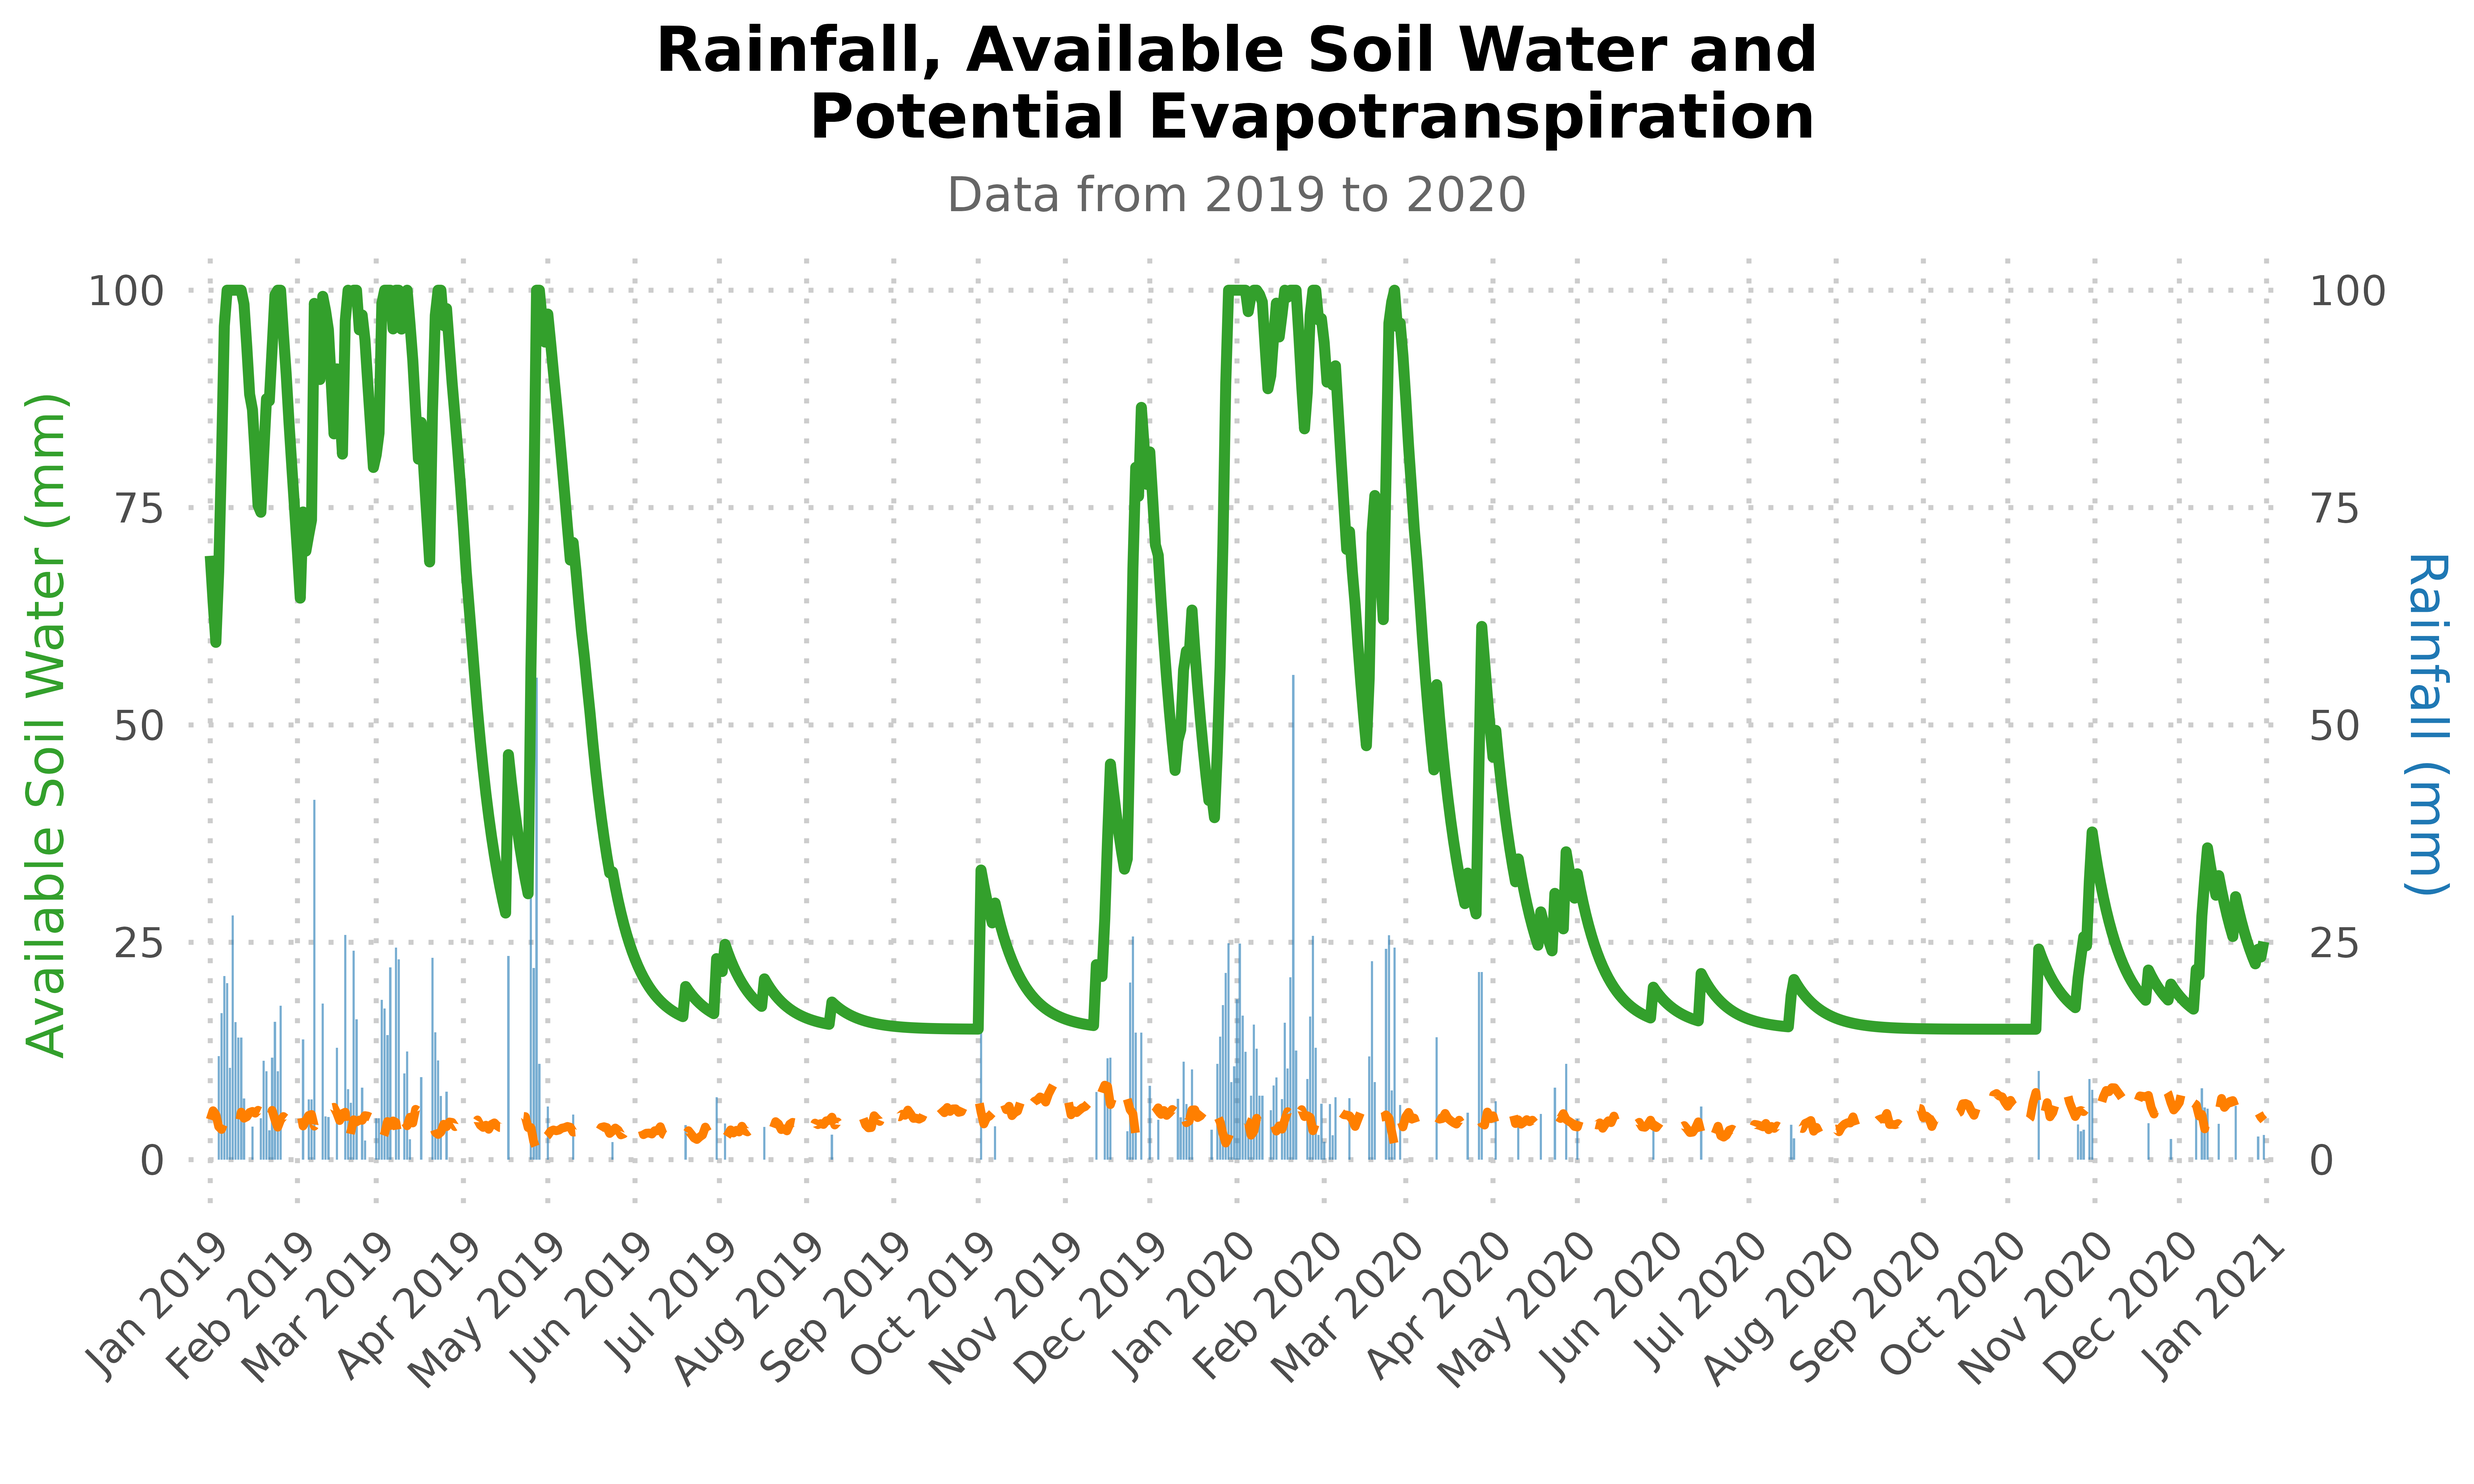
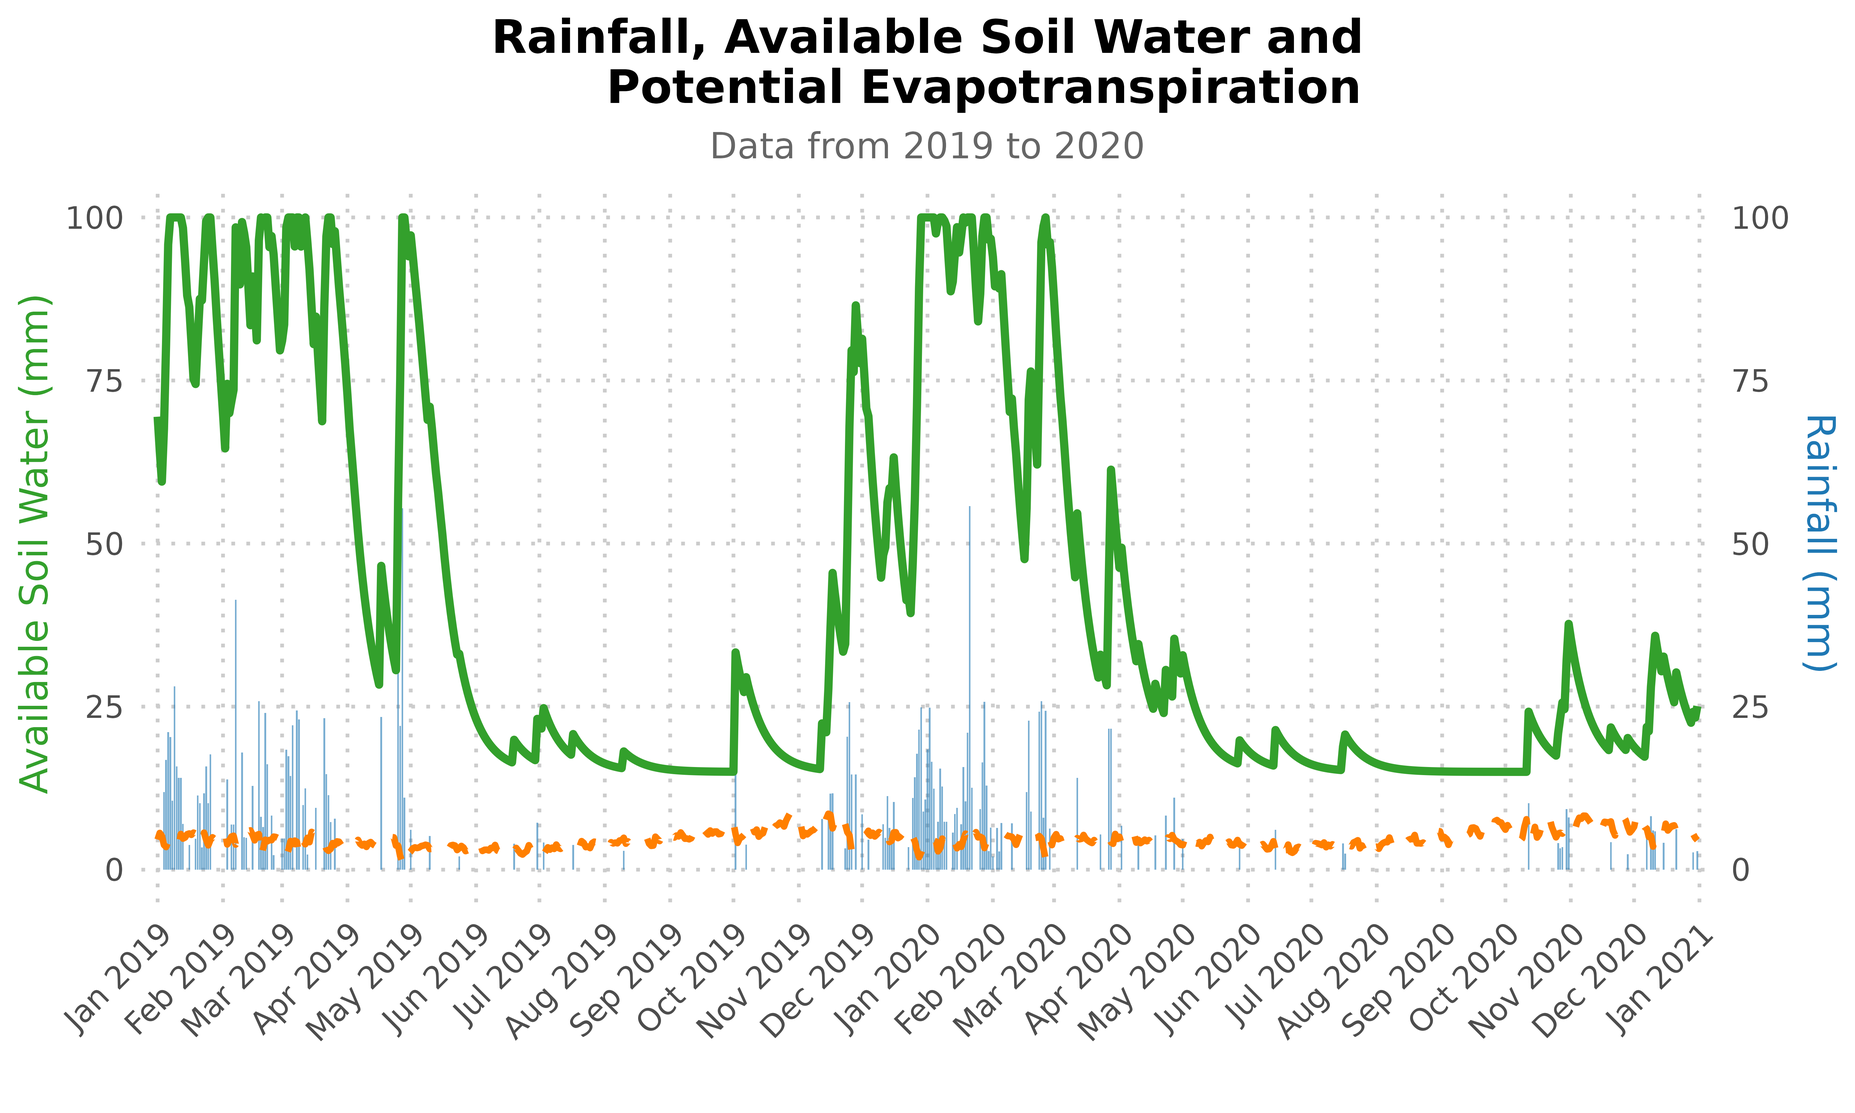
Deploying to gh-pages from @ RobelTakele/AquaBEHER@e83e4a115a71dea6b12595fe2a8b7c8af680c6b0 🚀

Changed region(s): [[0.4675, 0.7156, 0.5298, 0.7778], [0.1247, 0.7467, 0.187, 0.7778]]

diff --git a/articles/AquaBEHER.html b/articles/AquaBEHER.html
@@ -234,7 +234,7 @@ formulation:</p>
 <span>  lwd <span class="op">=</span> <span class="fu"><a href="https://rdrr.io/r/base/c.html" class="external-link">c</a></span><span class="op">(</span><span class="fl">2</span>, <span class="fl">2</span><span class="op">)</span>, inset <span class="op">=</span> <span class="fu"><a href="https://rdrr.io/r/base/c.html" class="external-link">c</a></span><span class="op">(</span><span class="fl">1</span>, <span class="fl">1</span><span class="op">)</span>,</span>
 <span>  xpd <span class="op">=</span> <span class="cn">TRUE</span>, col <span class="op">=</span> <span class="fu"><a href="https://rdrr.io/r/base/c.html" class="external-link">c</a></span><span class="op">(</span><span class="st">"black"</span>, <span class="st">"blue"</span><span class="op">)</span></span>
 <span><span class="op">)</span></span></code></pre></div>
-<p><img src="AquaBEHER_files/figure-html/PETplot-1.png" width="4000" style="display: block; margin: auto;"></p>
+<p><img src="AquaBEHER_files/figure-html/PETplot-1.png" width="1800" style="display: block; margin: auto;"></p>
 <p><strong>Key Insight:</strong> The FAO Penman–Monteith formulation
 presents enhanced day-to-day variations of evapotranspiration compared
 to the Hargreaves-Samani formulation.</p>
@@ -354,7 +354,7 @@ values of Rain, Eto and soil water holding capacity.</p>
 <span>    panel.grid.minor <span class="op">=</span> <span class="fu"><a href="https://ggplot2.tidyverse.org/reference/element.html" class="external-link">element_blank</a></span><span class="op">(</span><span class="op">)</span>,</span>
 <span>    panel.grid.major <span class="op">=</span> <span class="fu"><a href="https://ggplot2.tidyverse.org/reference/element.html" class="external-link">element_line</a></span><span class="op">(</span>linetype <span class="op">=</span> <span class="st">"dotted"</span>, color <span class="op">=</span> <span class="st">"grey80"</span><span class="op">)</span></span>
 <span>  <span class="op">)</span></span></code></pre></div>
-<p><img src="AquaBEHER_files/figure-html/WATBALplot-1.png" width="4000" style="display: block; margin: auto;"></p>
+<p><img src="AquaBEHER_files/figure-html/WATBALplot-1.png" width="3000" style="display: block; margin: auto;"></p>
 </div>
 </div>
 <div class="section level2">
@@ -524,7 +524,7 @@ compute the wet season calendar:</p>
 <span>      <span class="st">"Cessation"</span> <span class="op">=</span> <span class="st">"red"</span></span>
 <span>    <span class="op">)</span></span>
 <span>  <span class="op">)</span></span></code></pre></div>
-<p><img src="AquaBEHER_files/figure-html/WSC-1.png" width="4000" style="display: block; margin: auto;"></p>
+<p><img src="AquaBEHER_files/figure-html/WSC-1.png" width="3000" style="display: block; margin: auto;"></p>
 </div>
 </div>
 <div class="section level2">
@@ -635,7 +635,7 @@ fcstVarName, tercileMethod)</p>
 <span>  <span class="op">)</span><span class="op">)</span> <span class="op">+</span></span>
 <span>  <span class="fu"><a href="https://ggplot2.tidyverse.org/reference/geom_text.html" class="external-link">geom_text</a></span><span class="op">(</span><span class="fu"><a href="https://ggplot2.tidyverse.org/reference/aes.html" class="external-link">aes</a></span><span class="op">(</span>label <span class="op">=</span> <span class="fu"><a href="https://rdrr.io/r/base/paste.html" class="external-link">paste0</a></span><span class="op">(</span><span class="va">Probability</span>, <span class="st">"%"</span><span class="op">)</span><span class="op">)</span>,</span>
 <span>    vjust <span class="op">=</span> <span class="op">-</span><span class="fl">0.5</span>,</span>
-<span>    size <span class="op">=</span> <span class="fl">5</span>, fontface <span class="op">=</span> <span class="st">"bold"</span></span>
+<span>    size <span class="op">=</span> <span class="fl">4</span>, fontface <span class="op">=</span> <span class="st">"bold"</span></span>
 <span>  <span class="op">)</span> <span class="op">+</span></span>
 <span>  <span class="fu"><a href="https://ggplot2.tidyverse.org/reference/labs.html" class="external-link">labs</a></span><span class="op">(</span></span>
 <span>    title <span class="op">=</span> <span class="st">"Seasonal Forecast of the Onset of the Wet Season"</span>,</span>
@@ -649,7 +649,7 @@ fcstVarName, tercileMethod)</p>
 <span>    axis.title.y <span class="op">=</span> <span class="fu"><a href="https://ggplot2.tidyverse.org/reference/element.html" class="external-link">element_text</a></span><span class="op">(</span>size <span class="op">=</span> <span class="fl">14</span><span class="op">)</span>,</span>
 <span>    legend.position <span class="op">=</span> <span class="st">"none"</span></span>
 <span>  <span class="op">)</span></span></code></pre></div>
-<p><img src="AquaBEHER_files/figure-html/fcstWSC-1.png" width="4000" style="display: block; margin: auto;"></p>
+<p><img src="AquaBEHER_files/figure-html/fcstWSC-1.png" width="2400" style="display: block; margin: auto;"></p>
 </div>
 </div>
 <div class="section level2">
